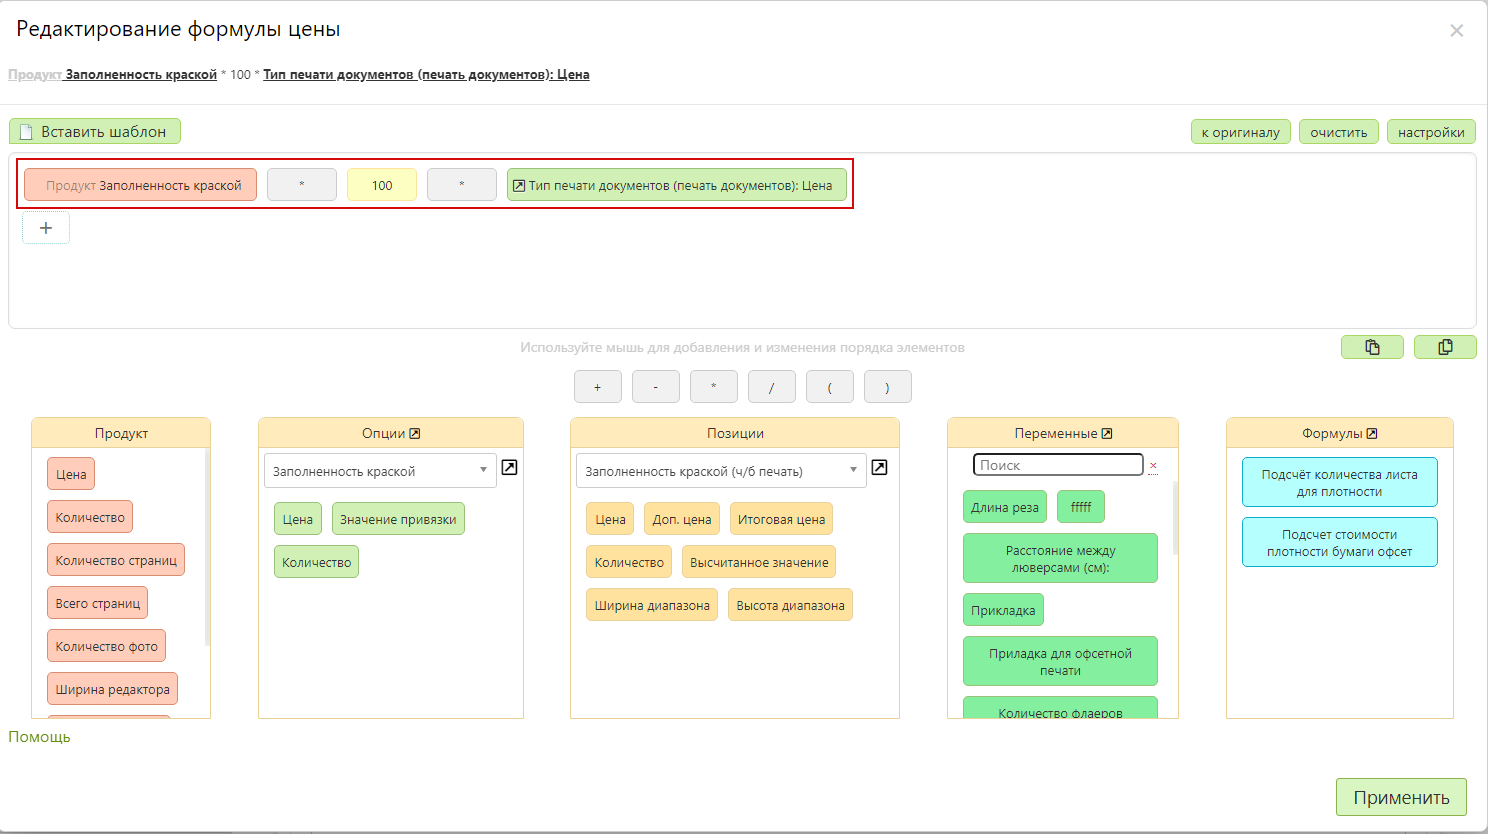
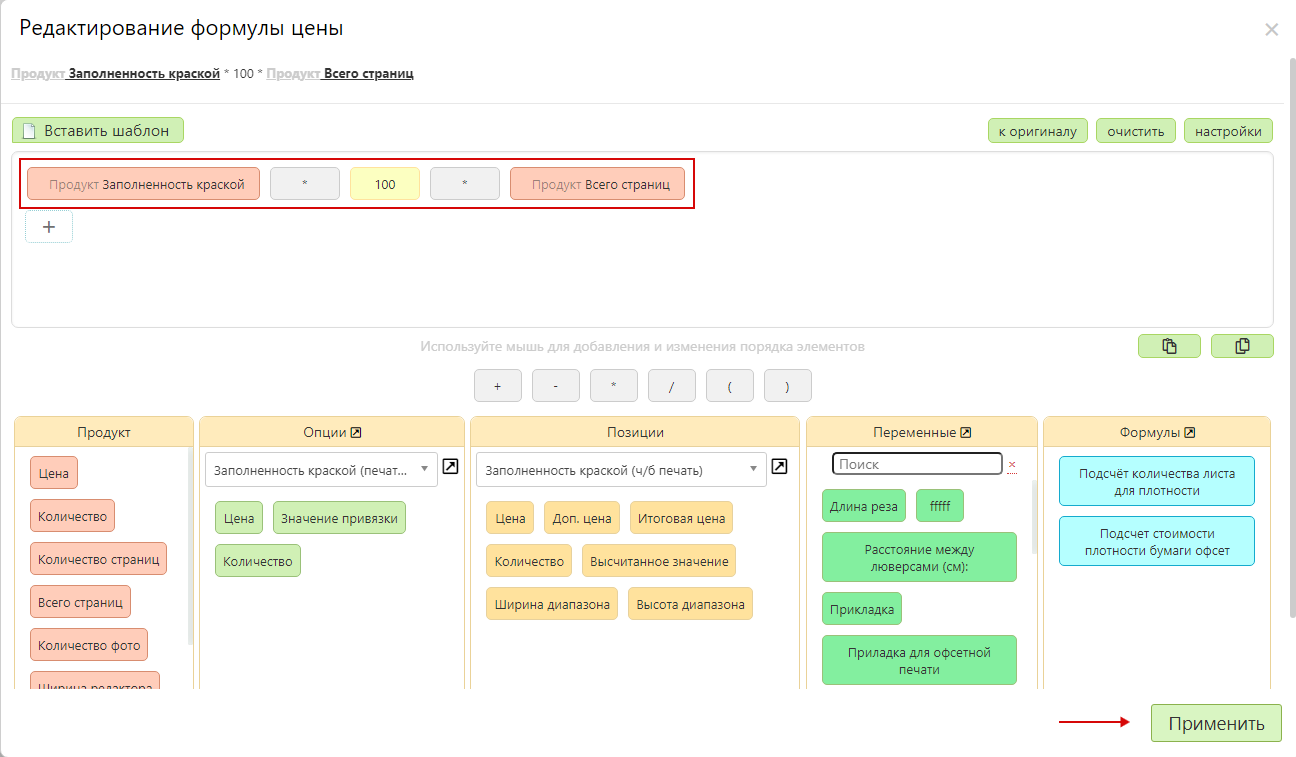
+ печать документов (заполненность)

diff --git a/docs/calculators/document-printing.md b/docs/calculators/document-printing.md
@@ -1243,7 +1243,7 @@
 * Затем, нажать "__Сохранить__".
 * В подразделе "__Стоимость__" позиции опции "__Заполненность краской (печать документов)__" задать способ расчета цены "__По формуле__". Затем, в поле "__Формула для цены__" задать формулу для расчета дополнительной стоимости:
 ``` formula
-Заполненность краской * 100 * цена опции "Тип печати документов (печать документов)"
+Заполненность краской * 100 * общее количество страниц документа
 ```
 ![](../_media/calc/document-printing_115.png)
 * Затем, нажать "__Применить__", а после - "__Сохранить__" и сбросить кэш сайта.
